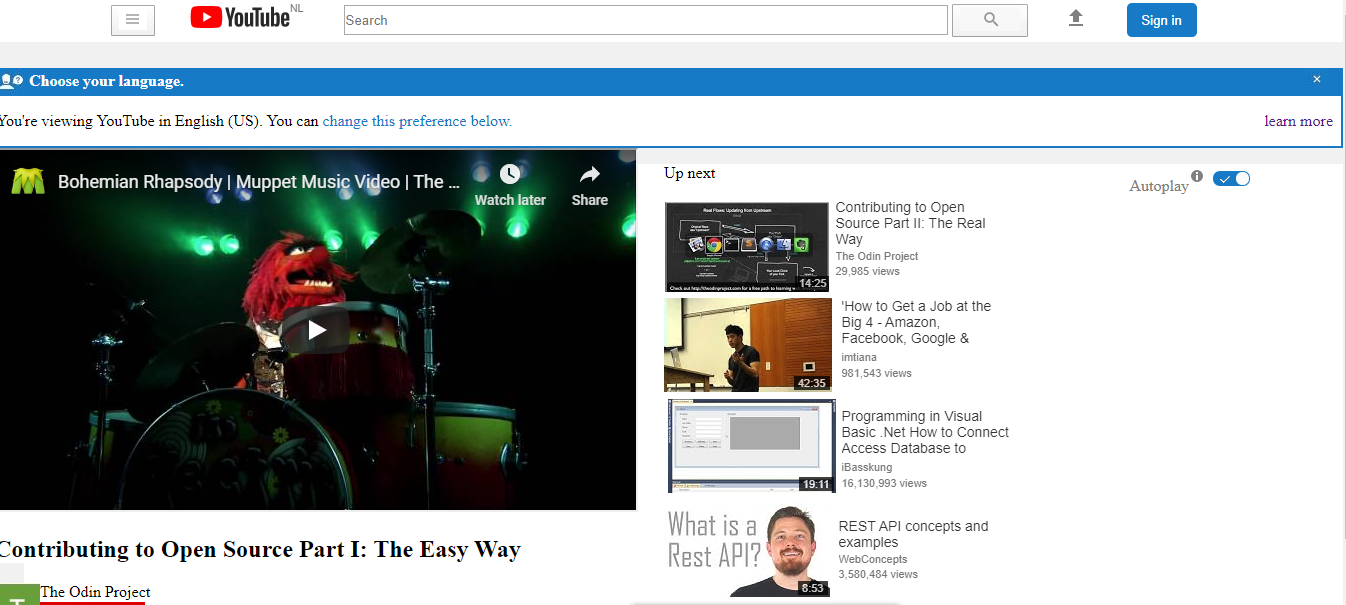
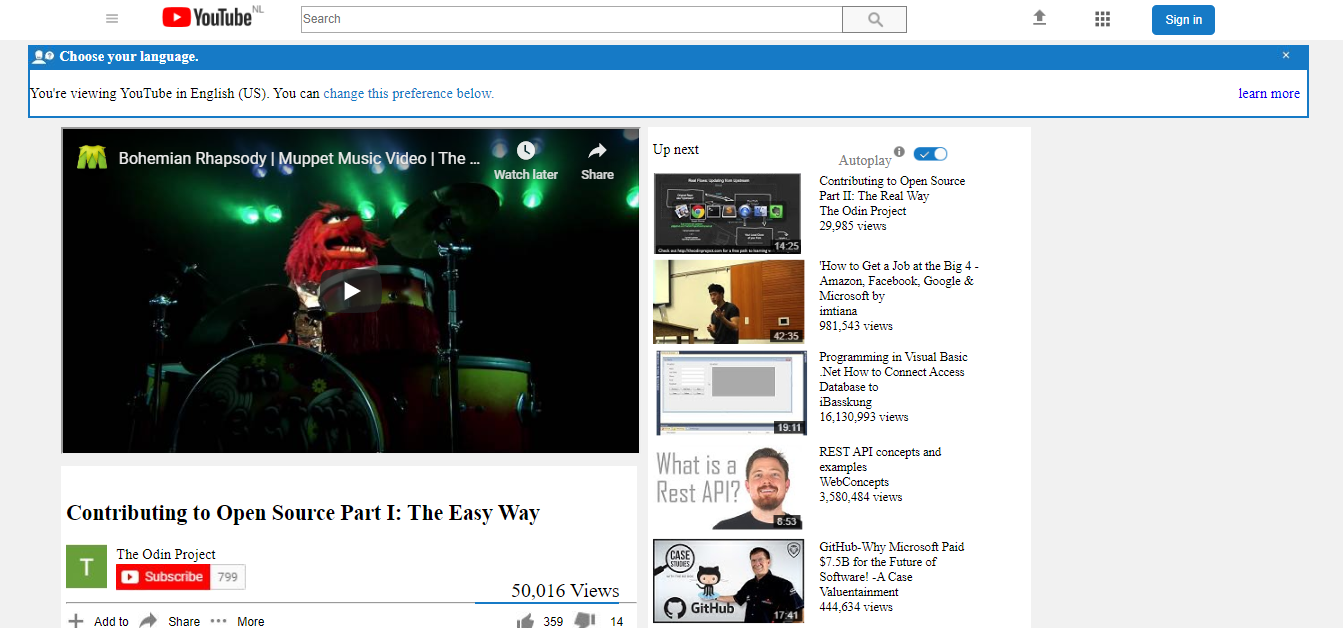
change all the id selectors to class

diff --git a/index.html b/index.html
@@ -7,71 +7,69 @@
     <title>Youtube</title>
 </head>
 <body>
-    <nav id="nav-bar">
-        <div class="nav-element" id="menu">
+    <nav class="nav-bar">
+        <div class="nav-element menu">
             <button class="cusor"><img  src="image/menu-icon.PNG" alt="menu" /></button>
         </div>
-        <div class="nav-element" id="youtube-icon">
+        <div class="nav-element youtube-icon">
             <a href="https://www.youtube.com/"><img class="cusor" alt="youtube-icon" src="image/youtube-icon.PNG"/></a>
         </div>
-        <div class="nav-element" id="search">
-            <input id="search-box" placeholder="Search" />
+        <div class="nav-element search">
+            <input class="search-box" placeholder="Search" />
+            <img class="nav-element cusor search-icon"  alt="search-icon" src="image/search-icon.PNG"/>
         </div>
-        <div class="nav-element">
-            <button class="cusor"><img id="search-icon" alt="search-icon" src="image/search-icon.PNG"/></button>
-    </div>
-        <div class="nav-element" id="upload-icon">
+        <div class="nav-element upload-icon">
             <a href="https://studio.youtube.com/channel/UCphmteOV1A2kjArBlckJ6Ww/videos/upload?d=ud&filter=%5B%5D&sort=%7B%22columnType%22%3A%22date%22%2C%22sortOrder%22%3A%22DESCENDING%22%7D"><img class="cusor" alt="upload-button" src="image/upload-icon.PNG" /></a>
         </div>
         <div class="nav-element">
-            <button class="cusor"><img id="more-app-icon" alt="search-icon" src="image/more-app-icon.png"/></button>
+            <button class="cusor"><img class="more-app-icon" alt="search-icon" src="image/more-app-icon.png"/></button>
     </div>
-        <input class="nav-element cusor" id="signin-button"  type="button" value="Sign in">
+        <input class="nav-element signin-button cusor" type="button" value="Sign in">
     </nav>
     
     <div class="chose-lang">
-        <div id="title-chose-lang">
-           <p> <img alt="support-icon" src="image/support-icon.JPG">Choose your language.<img class="cusor" alt="x-icon" id="x-icon" src="image/x-icon.JPG"> </p>
+        <div class="title-chose-lang">
+           <p> <img alt="support-icon" src="image/support-icon.JPG">Choose your language.<img class="cusor x-icon" alt="x-icon" src="image/x-icon.JPG"> </p>
         </div>
-        <div id="support-text">
-            <p id="discription-chose-lang">You're viewing YouTube in English (US). You can<span> change this preference below.</span> <span id="learn-more"><a target="blank" href="https://support.google.com/youtube/answer/87604?hl=en&visit_id=637000072769461721-1280205538&rd=1&co=GENIE.Platform%3DDesktop&oco=1">learn more</a></span></p>
+        <div class="support-text">
+            <p class="discription-chose-lang">You're viewing YouTube in English (US). You can<span> change this preference below.</span> <span class="learn-more"><a target="blank" href="https://support.google.com/youtube/answer/87604?hl=en&visit_class=637000072769461721-1280205538&rd=1&co=GENIE.Platform%3DDesktop&oco=1">learn more</a></span></p>
         </div>
     </div>
     <div class="container">
-    <div id="grouping"> 
+    <div class="grouping"> 
         <div class="video-player">
-        <iframe id="youtube-video"
+        <iframe class="youtube-video"
             src="https://www.youtube.com/embed/tgbNymZ7vqY">
             </iframe>
         </div>
         
-            <div id="chanel-buttons">
+            <div class="chanel-buttons">
             <h2>Contributing to Open Source Part I: The Easy Way </h2>
             <div>
             <img src="image/channel-icon.JPG" alt="channel-icon" class="subscribe-channel-button cusor"/> 
-            <p id="odin">The Odin Project</p>
-            <img src="image/subcribe-botton.JPG" alt="subscribe-button" class="cusor" id="subscribe"/>
-            <P id="views">50,016 Views</P>
+            <p class="odin">The Odin Project</p>
+            <img src="image/subcribe-botton.JPG" alt="subscribe-button" class="cusor subscribe"/>
+            <P class="views">50,016 Views</P>
             </div>
             <hr>
         <div>
             <img alt="add-button" class="cusor bottom-icon" src="image/add-button.JPG"/>
-            <button><a class="cusor bottom-icon">Add to</a></button>
+            <button class="cusor bottom-icon">Add to</button>
             <img alt="share-button" class="cusor bottom-icon" src="image/share-button.JPG"/>
-            <button><a class="cusor">Share</a></button>
+            <button class="cusor">Share</button>
             <img alt="more-button" class="cusor bottom-icon" src="image/more-botton.JPG"/>
-            <button><a class="cusor">More</a></button>
-           <div id="like"> <img alt="dislike-icon" class="cusor bottom-icon" src="image/thumbs-up.JPG"/>
-            <button><a class="cusor">359</a></button>
+            <button class="cusor">More</button>
+           <div class="like"> <img alt="dislike-icon" class="cusor bottom-icon" src="image/thumbs-up.JPG"/>
+            <button class="cusor">359</button>
            <img alt="like-icon"  class="cusor bottom-icon" src="image/thumbs-down.JPG"/>
-           <button><a class="cusor">14</a></button>
+           <button class="cusor">14</button>
         </div>
         </div>
         </div>
         </div>
         <div class="side-bar">
-            <div id="text-sidebare">
-            <p>Up next <span id="autoplay">Autoplay<img alt="switch-icon" src="image/switch.png"></span></p>
+            <div class="text-sidebare">
+            <p>Up next <span class="autoplay">Autoplay<img alt="switch-icon" src="image/switch.png"></span></p>
         </div>
         <div class="video-sug">
             <img alt="video" src="image/video1.png" />

diff --git a/style.css b/style.css
@@ -7,7 +7,7 @@ button{
     border-style: none;
     background-color: white;
 }
-#nav-bar{
+.nav-bar{
     display: inline-block;
     width: 100%;
     background-color:white;
@@ -23,21 +23,27 @@ button{
     vertical-align: middle;
     margin-right: 30px;
 }
-#search{
+.search{
     margin-right: 0;
 }
-#search-box{
+.search-box{
     width: 600px;
     height: 24px;
     margin-right: 0;
 }
-#search-icon{
-    height: 24px;
+.search-icon{
+    height: 28px;
+    border: 1px solid gray;
+    margin-left: -7px ;
+    margin-bottom: 1px;
 }
-#upload-icon{
+.search-icon:active{
+    border: 1px solid #167AC6;
+}
+.upload-icon{
     margin-left: 100px;
 }
-#signin-button{
+.signin-button{
     background-color: #167AC6;
     color: white;
     width: 70px;
@@ -51,44 +57,45 @@ button{
     width: 95%;
     margin: 0 auto;
     margin-top: 50px;
+    margin-bottom: 10px;
     position: relative;
 }
-#title-chose-lang{
+.title-chose-lang{
     background-color: #167AC6;
  
 }
-#title-chose-lang p{
+.title-chose-lang p{
     font-size: 16px;
     font-weight: bold;
     color: white;
    
 }
-#title-chose-lang img{
+.title-chose-lang img{
     vertical-align: middle;
     padding-right: 5px;
 }
-#x-icon{
+.x-icon{
     position: absolute;
     right: 10px;
 }
-#support-text{
+.support-text{
     background-color: white;
     border: 2px #167AC6 solid;
     margin-top: -18px;
 }
-#discription-chose-lang span{
+.discription-chose-lang span{
 color:#167AC6 ;
 cursor:no-drop;
 }
-#learn-more{
+.learn-more{
     position: absolute;
     right: 10px;
     cursor:default;
 }
-#learn-more a{
+.learn-more a{
     text-decoration: none;
 }
-#youtube-video{
+.youtube-video{
     width:640px; 
     height:360px;
 }
@@ -99,12 +106,13 @@ cursor:no-drop;
 .cusor {
     cursor:pointer;  
 }
-#chanel-buttons{
+.chanel-buttons{
     margin-top: 8px;
     background-color: white;
     padding-top: 20px;
     padding-bottom: 10px;
     padding-left: 5px;
+    position: relative;
 }
 .bottom-icon{
     display: inline-block;
@@ -125,28 +133,26 @@ cursor:no-drop;
 
 }
 
-#subscribe{
+.subscribe{
     height: 30px;
     margin-top: -15px;
     
 }
 
-#like{
+.like{
     position: absolute;
     right: 10px;
     display: inline;
 }
 
-#grouping{
+.grouping{
     width: 640px;
     position: relative;
    float: left;
-   margin-right: 30px;
+   margin-right: 10px;
    z-index: 2;
 }
-.video-player{
-    background-color:white;
-}
+
 .side-bar{
     margin-left: 2px !important;
     position: relative;
@@ -154,22 +160,23 @@ cursor:no-drop;
     padding-bottom: 6px;
     width: 420px;
     float: left;
+    padding-left: 5px;
 }
     
-#autoplay{
+.autoplay{
     color:gray;
     position: absolute;
     right: 90px;
     
 }
-#text-sidebare{
+.text-sidebare{
     margin-top: 5px;
     vertical-align: middle;
 }
-#views{
+.views{
     position: absolute;
     right: 20px;
-    top: 475px;
+    top: 104px;
     font-size: 22px;
     padding-left: 40px;
     border-bottom: 2px solid #167AC6;
